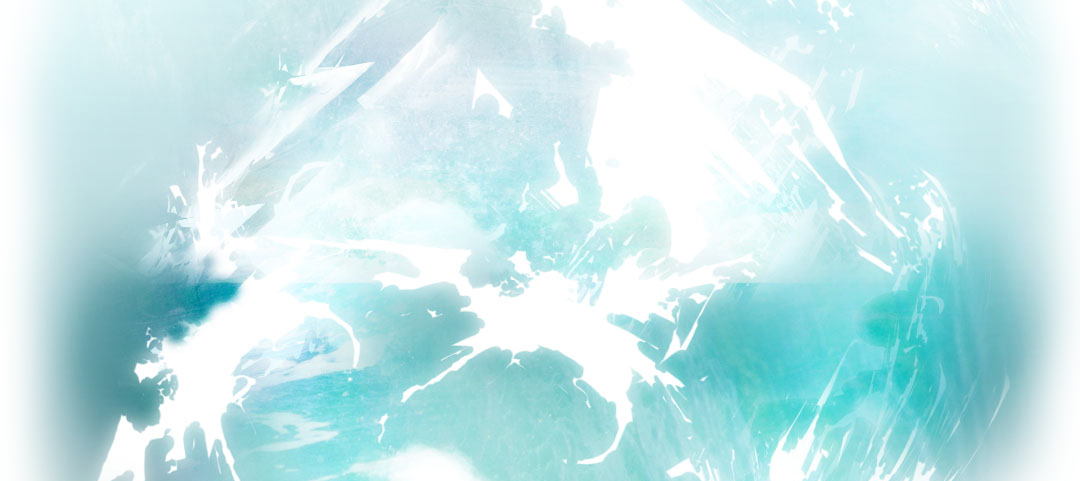
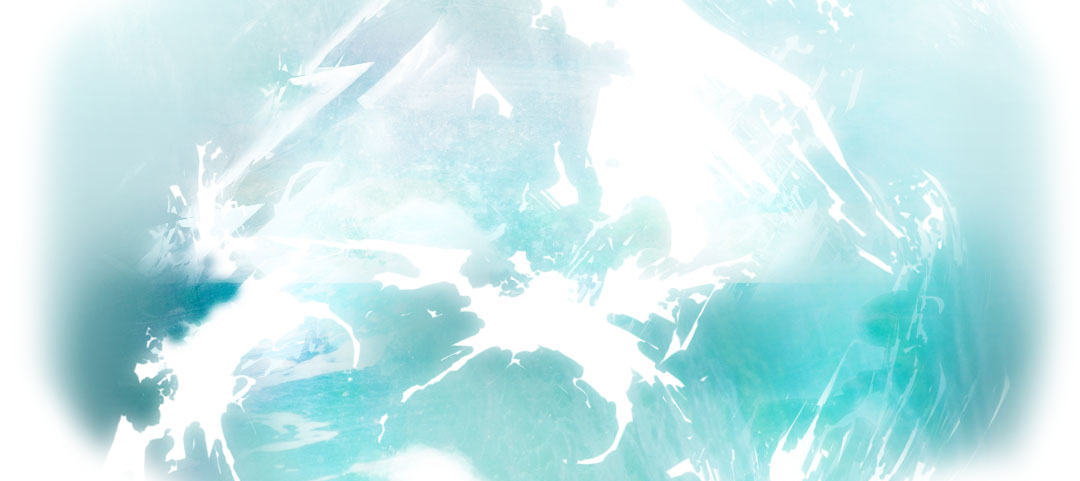
made jakes requested changes

Changed region(s): [[0.0, 0.7484, 0.1833, 1.0], [0.825, 0.9356, 0.9472, 1.0], [0.0611, 0.0, 0.0917, 0.0312]]

diff --git a/wp-content/themes/wakeup/css/style.css b/wp-content/themes/wakeup/css/style.css
@@ -233,6 +233,7 @@ footer #footer h6 {
 footer #footer h3 { font-style: italic; }
 footer #footer p { font-size: 0.857em; }
 footer #footer a { font-size: 0.857em; }
+footer #footer p { margin: 0 0 3em; }
 footer #footer img.alignleft { margin-right: 14px; }
 footer #footer a {
   display: block;
@@ -258,7 +259,6 @@ footer #footer .pad-60 {
 footer #footer #site-info {
   clear: both;
   padding-top: 20px;
-  text-align: right;
 }
 footer #footer #site-info a {
   display: inline;
@@ -697,7 +697,7 @@ a.question {
   -webkit-border-radius: 10px;
   -moz-border-radius: 10px;
   border-radius: 10px;
-  box-shadow: inset -3px -3px 5px #f86d6d;
+  box-shadow: inset 0 0 65px #f86d6d;
 }
 .yt_holder {
   background-color: #111111;
@@ -773,8 +773,11 @@ a.question {
 .older-entries h4 {
   font-size: 0.857em;
   font-weight: 700;
+  background-color: #dfdfdf;
+  padding: 5px 10px;
+  font-style: normal;
 }
-.older-entries h4 a { font-size: 14px; }
+.older-entries h4 a { font-size: 16px; }
 .lbg-box {
   width: 865px;
   height: 299px;
@@ -887,4 +890,9 @@ footer.bottom-links a {
 }
 .old-posts h4 { margin-bottom: 0; }
 #author-description h2 { margin-bottom: 5px; }
+.mass-archive-pages .hentry {
+  background-color: #dfdfdf;
+  padding: 1px 0px 30px 30px;
+  margin-bottom: 10px;
+}
 .last { margin-right: 0; }

diff --git a/wp-content/themes/wakeup/css/style.less b/wp-content/themes/wakeup/css/style.less
@@ -409,6 +409,11 @@ footer
 			font-size: 0.857em;
 		}
 		
+		p
+		{
+			margin: 0 0 3em;
+		}
+		
 		img.alignleft
 		{
 			margin-right: 14px;
@@ -459,7 +464,6 @@ footer
 		{
 			clear: both;
 			padding-top: 20px;
-			text-align: right;
 			
 			a
 			{
@@ -1077,7 +1081,7 @@ a.question
 	width: 100%;
 	display: block;
 	.rounded-corners;
-	box-shadow: inset -3px -3px  5px #f86d6d;
+	box-shadow: inset 0 0 65px #f86d6d;
 }
 
 
@@ -1252,10 +1256,13 @@ ul li a {
 	{
 		font-size: 0.857em;
 		font-weight: 700;
+		background-color: @wum-box;
+		padding: 5px 10px;
+		font-style: normal;
 		
 		a
 		{
-			font-size: 14px;
+			font-size: 16px;
 		}
 	}
 	
@@ -1434,6 +1441,13 @@ footer.bottom-links
 	{
 		margin-bottom: 5px;
 	}
+}
+
+.mass-archive-pages .hentry
+{
+	background-color: @wum-box;
+	padding: 1px 0px 30px 30px;
+	margin-bottom: 10px;
 }
 
 .last

diff --git a/wp-content/themes/wakeup/home.php b/wp-content/themes/wakeup/home.php
@@ -19,7 +19,7 @@
 					<?php endwhile; ?>
 				</div>
 				<div class="older-entries">
-					<h3><a href="#" title="See all past posts">Older Entries...</a></h3>
+					<h3>Recent Entries...</h3>
 					<?php query_posts('author=3&showposts=4'); ?>
 					<?php while (have_posts()) : the_post();
 					if (in_array ($post->ID, $do_not_duplicate)) continue;
@@ -48,7 +48,7 @@
 					<?php endwhile; ?>
 				</div>
 				<div class="older-entries">
-					<h3><a href="#" title="See all past posts">Older Entries...</a></h3>
+					<h3>Recent Entries...</h3>
 					<?php query_posts('author=2&showposts=4'); ?>
 					<?php while (have_posts()) : the_post();
 					if (in_array ($post->ID, $do_not_duplicate)) continue;

diff --git a/wp-content/themes/wakeup/author.php b/wp-content/themes/wakeup/author.php
@@ -1,14 +1,16 @@
 <?php get_header(); ?>
 
 		<div id="content-container">
-			<section id="content" role="main">
+			<section id="content" role="main" class="mass-archive-pages">
 
 <?php
 	if ( have_posts() )
 		the_post();
 ?>
 
-				<h1 class="page-title author"><?php printf( __( 'What %s is saying', 'twentyten' ), "<span class='vcard'><a class='url fn n' href='" . get_author_posts_url( get_the_author_meta( 'ID' ) ) . "' title='" . esc_attr( get_the_author() ) . "' rel='me'>" . get_the_author() . "</a></span>" ); ?></h1>
+				<h1 class="page-title author">What <?php the_author(); ?> is saying</h1>
+				
+				
 
 <?php
 	rewind_posts();

diff --git a/wp-content/themes/wakeup/category.php b/wp-content/themes/wakeup/category.php
@@ -1,7 +1,7 @@
 <?php get_header(); ?>
 
 		<div id="content-container">
-			<section id="content" role="main">
+			<section id="content" role="main" class="mass-archive-pages">
 
 				<h1 class="page-title"><?php
 					printf( __( 'Category: %s', 'twentyten' ), '<span>' . single_cat_title( '', false ) . '</span>' );

diff --git a/wp-content/themes/wakeup/tag.php b/wp-content/themes/wakeup/tag.php
@@ -1,7 +1,7 @@
 <?php get_header(); ?>
 
 		<div id="content-container">
-			<section id="content" role="main">
+			<section id="content" role="main" class="mass-archive-pages">
 
 				<h1 class="page-title"><?php
 					printf( __( 'Tag: %s', 'twentyten' ), '<span>' . single_tag_title( '', false ) . '</span>' );

diff --git a/wp-content/themes/wakeup/loop.php b/wp-content/themes/wakeup/loop.php
@@ -158,7 +158,6 @@
 				<?php edit_post_link( __( 'Edit', 'twentyten' ), '<span class="meta-sep">|</span> <span class="edit-link">', '</span>' ); ?>
 			</div><!-- .entry-utility -->
 		</div><!-- #post-## -->
-		<hr class="archives">
 
 		<?php comments_template( '', true ); ?>
 

diff --git a/wp-content/themes/wakeup/archive.php b/wp-content/themes/wakeup/archive.php
@@ -1,7 +1,7 @@
 <?php get_header(); ?>
 
 		<div id="content-container">
-			<section id="content" role="main">
+			<section id="content" role="main"  class="mass-archive-pages">
 
 <?php
 	/* Queue the first post, that way we know
